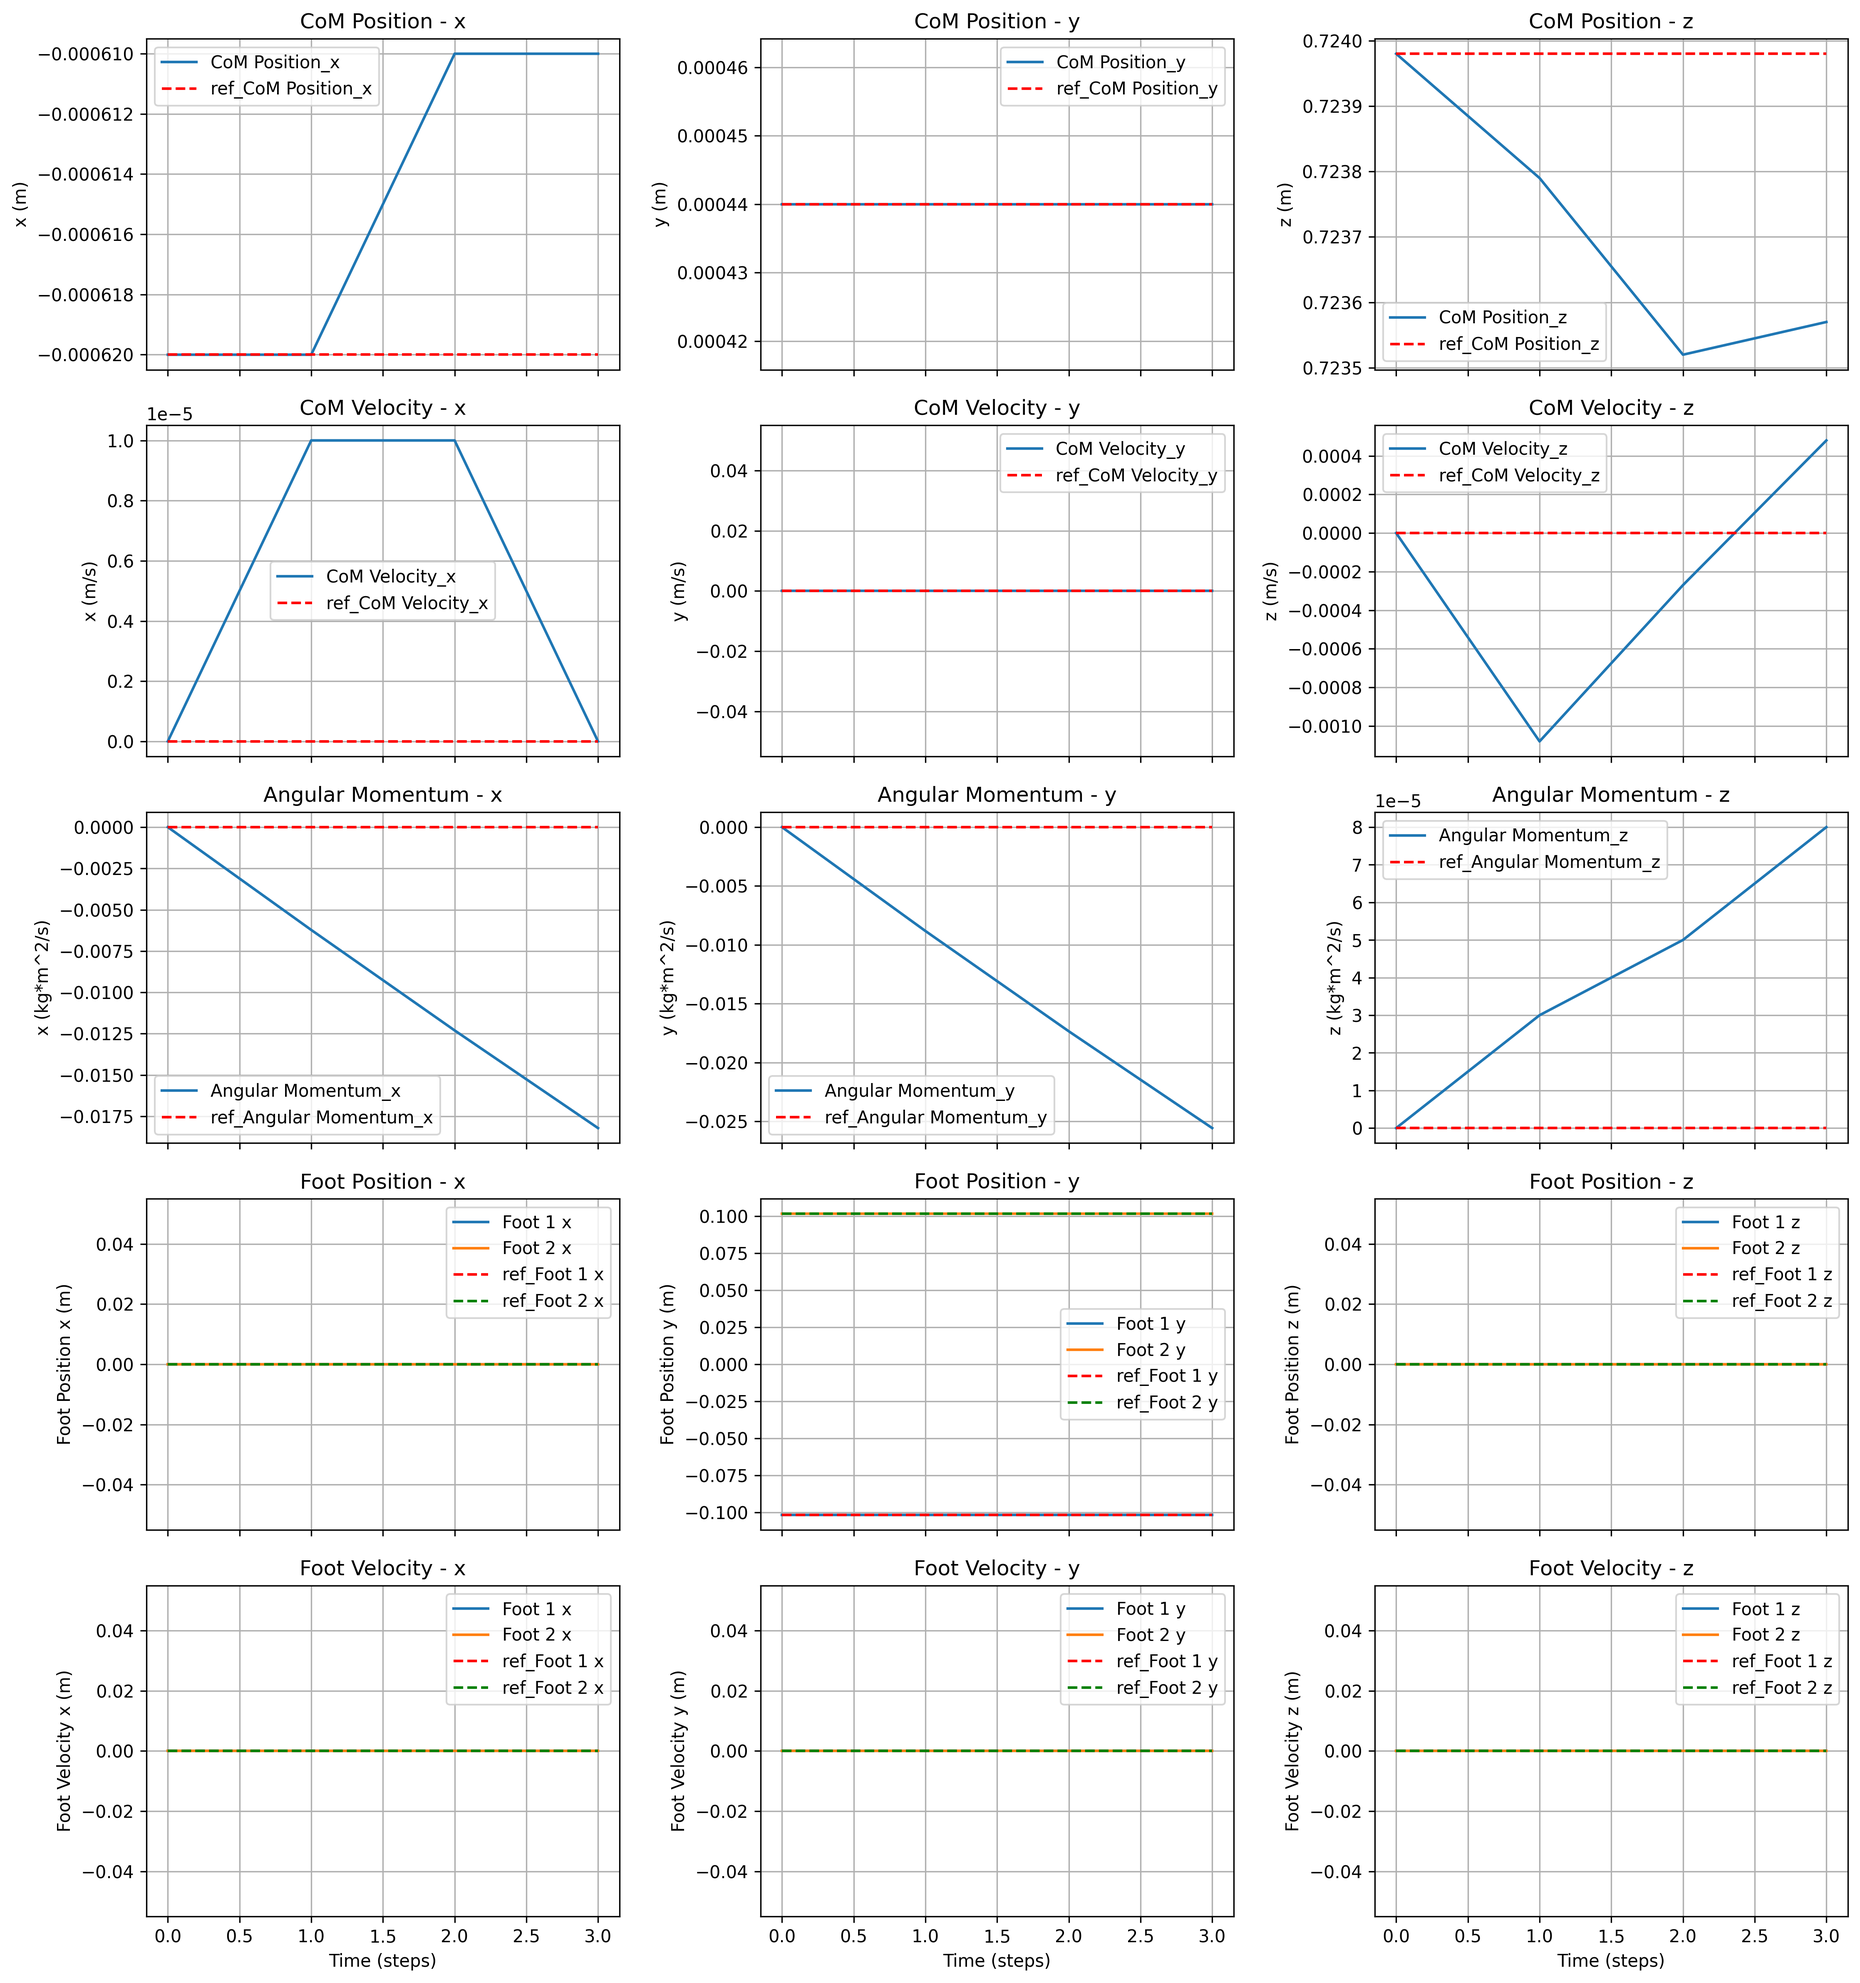
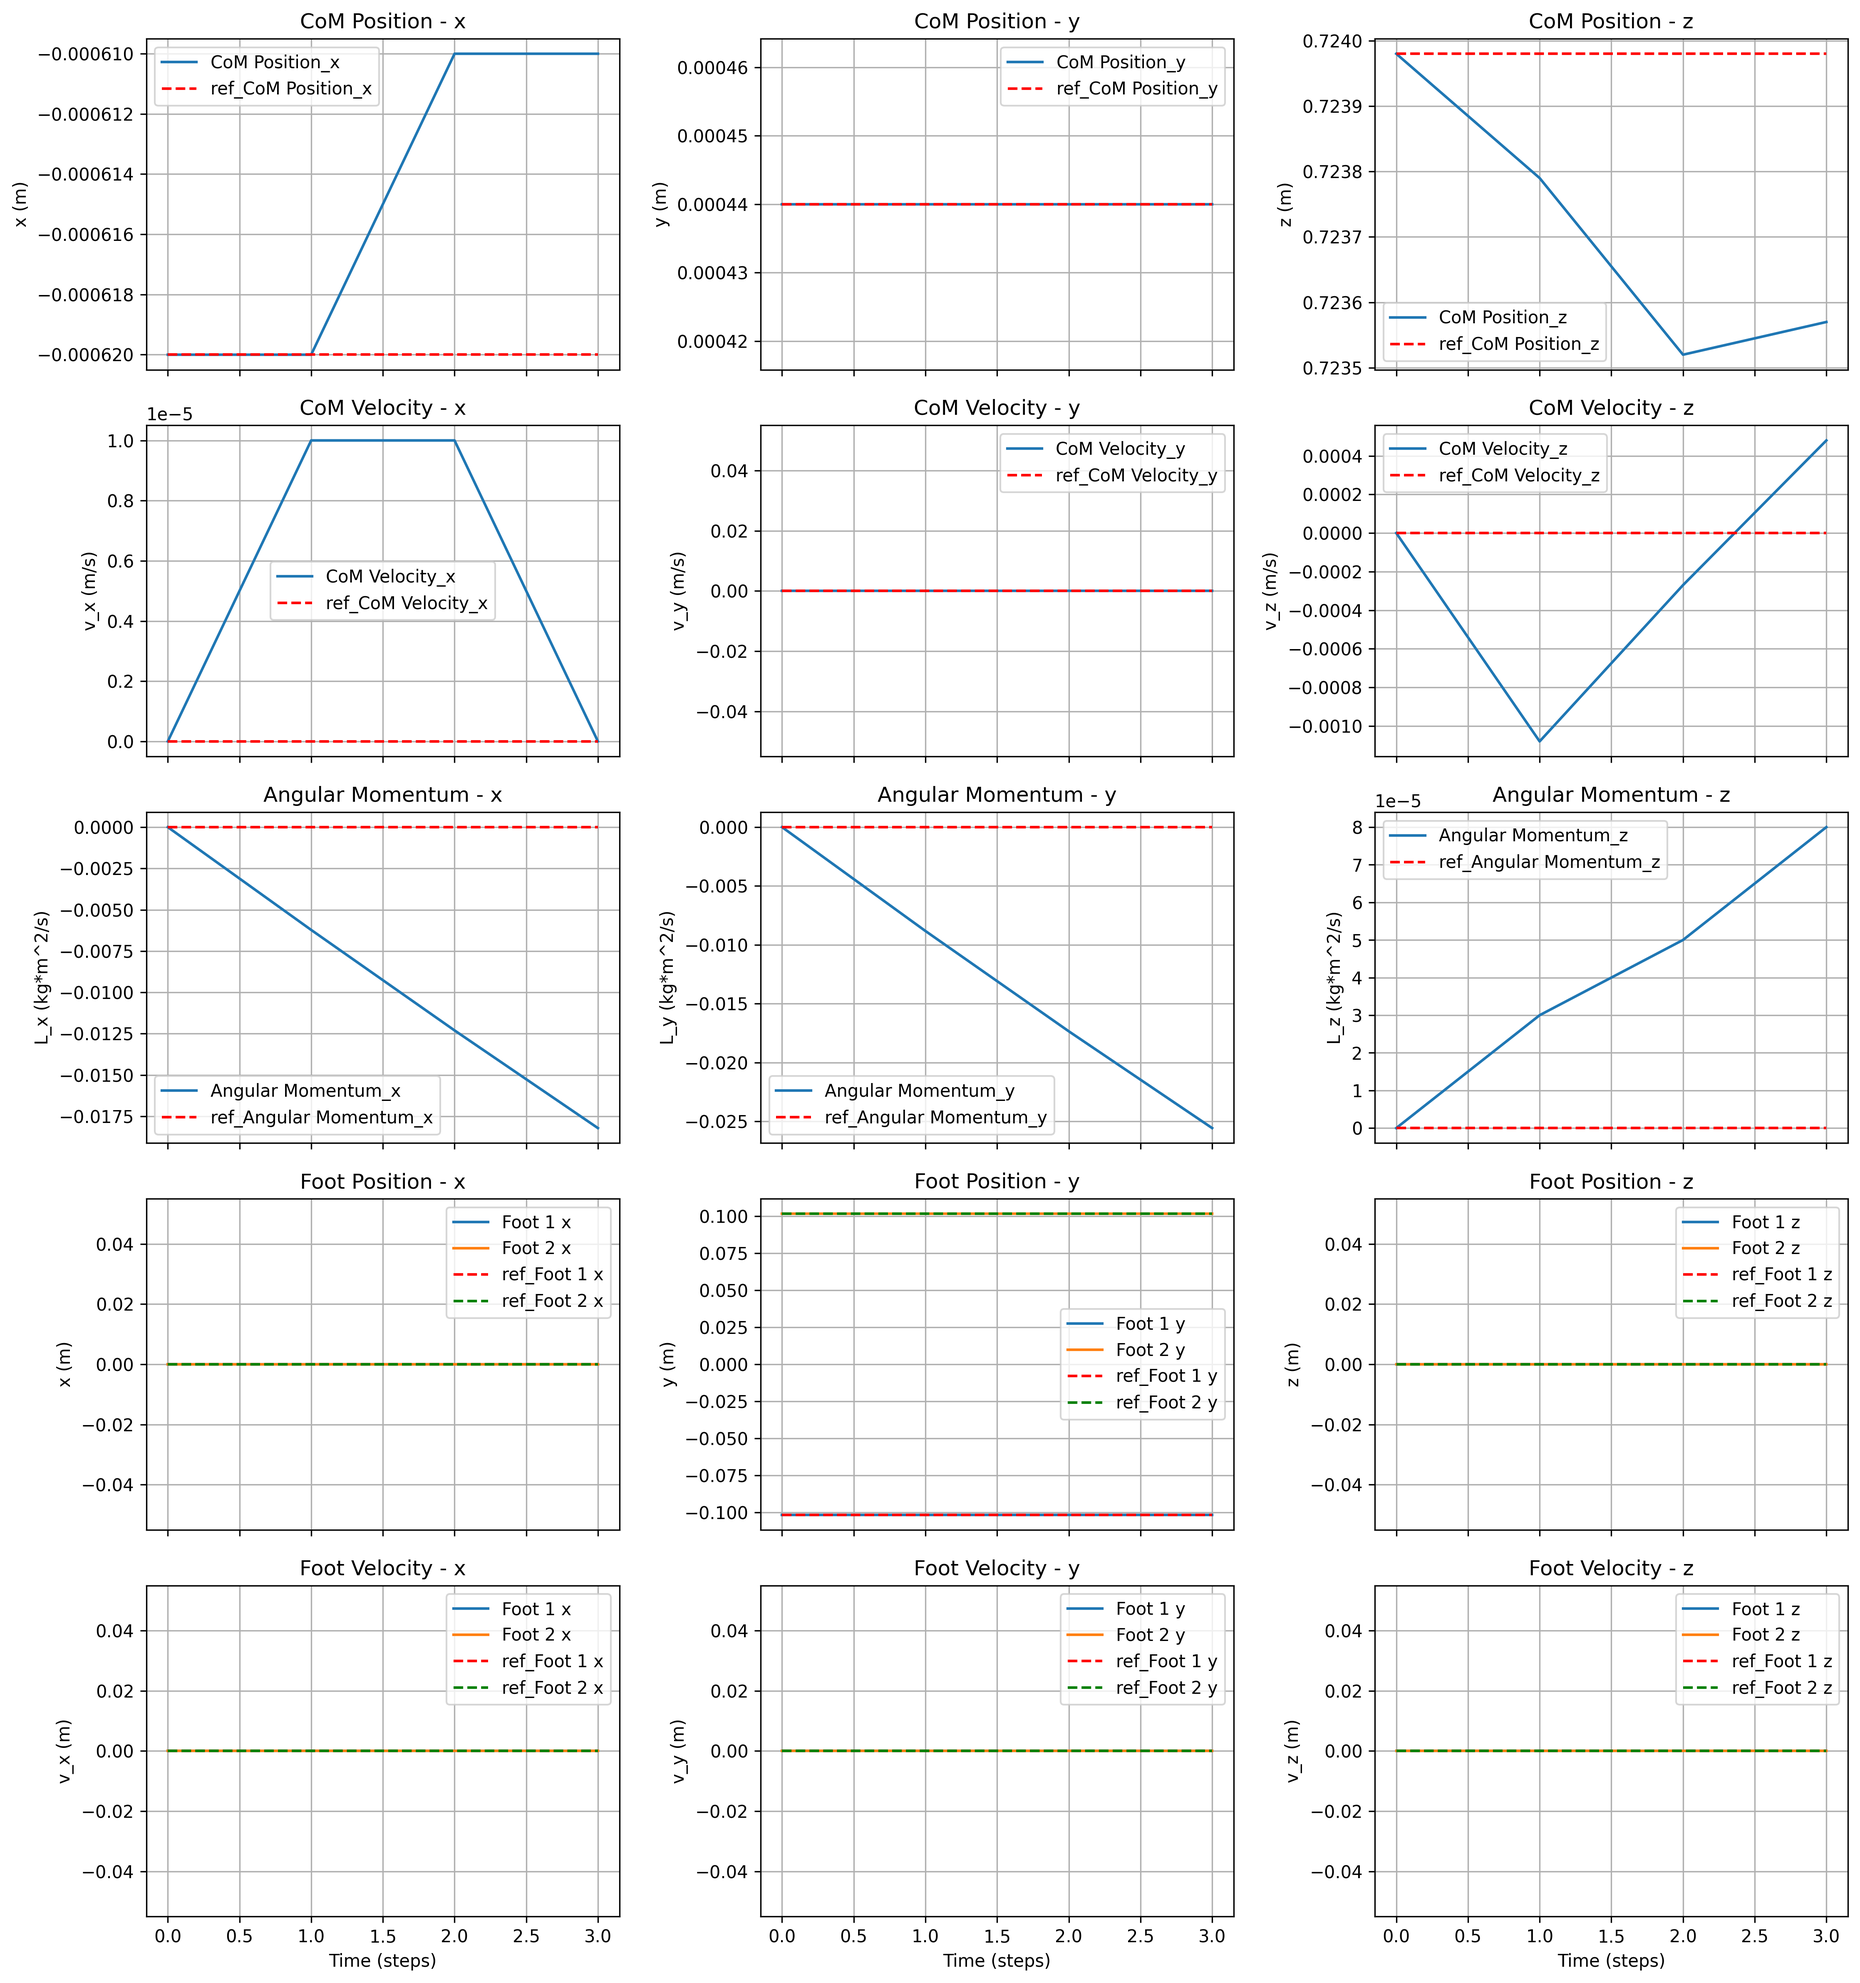
plots again

diff --git a/centroidal_dyn-main/graphics.py b/centroidal_dyn-main/graphics.py
@@ -272,11 +272,11 @@ def evolution_plots(X, U, X_ref, U_ref, dm, ref_type):
             if ref_values is not None:
                 ax_row[j].plot(time, ref_values[:, j], color='r', linestyle='--', label=f"ref_{title}_{labels[j]}")
             if title == "Angular Momentum":
-                ax_row[j].set_ylabel(f"{labels[j]} (kg*m^2/s)")
+                ax_row[j].set_ylabel(f"L_{labels[j]} (kg*m^2/s)")
             elif title == "CoM Position":
                 ax_row[j].set_ylabel(f"{labels[j]} (m)")
             elif title == "CoM Velocity":
-                ax_row[j].set_ylabel(f"{labels[j]} (m/s)")
+                ax_row[j].set_ylabel(f"v_{labels[j]} (m/s)")
             ax_row[j].set_title(f"{title} - {labels[j]}")
             ax_row[j].legend()
             ax_row[j].grid()
@@ -287,7 +287,7 @@ def evolution_plots(X, U, X_ref, U_ref, dm, ref_type):
         axs[3, j].plot(time, foot_positions_L[:, j, 1], label=f"Foot 2 {labels[j]}")
         axs[3, j].plot(time, ref_P_L_k[:, j, 0], color='r', linestyle='--', label=f"ref_Foot 1 {labels[j]}")
         axs[3, j].plot(time, ref_P_L_k[:, j, 1], color='g', linestyle='--', label=f"ref_Foot 2 {labels[j]}")
-        axs[3, j].set_ylabel(f"Foot Position {labels[j]} (m)")
+        axs[3, j].set_ylabel(f"{labels[j]} (m)")
         axs[3, j].set_title(f"Foot Position - {labels[j]}")
         axs[3, j].legend()
         axs[3, j].grid()
@@ -296,7 +296,7 @@ def evolution_plots(X, U, X_ref, U_ref, dm, ref_type):
         axs[4, j].plot(time, foot_velocities_L[:, j, 1], label=f"Foot 2 {labels[j]}")
         axs[4, j].plot(time, ref_foot_velocities_L[:, j, 0], color='r', linestyle='--', label=f"ref_Foot 1 {labels[j]}")
         axs[4, j].plot(time, ref_foot_velocities_L[:, j, 1], color='g', linestyle='--', label=f"ref_Foot 2 {labels[j]}")
-        axs[4, j].set_ylabel(f"Foot Velocity {labels[j]} (m)")
+        axs[4, j].set_ylabel(f"v_{labels[j]} (m)")
         axs[4, j].set_title(f"Foot Velocity - {labels[j]}")
         axs[4, j].legend()
         axs[4, j].grid()
